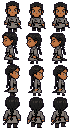
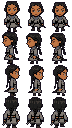
Quest art: Haru (owner's drop): walking sheet, portraits (neutral, caught, set), battle stance; Bayarmaa's sheet keeps her eyes dark [skip netlify]
Walking sheets converted with --pixel 0 --resample nearest: the pixel-grid sampling
averaged the eyes' catch-light and iris into grey. Haru's detailed battle picture
shrunk with a box filter; his fist is his hand point (BATTLE_HANDS.byLook.haru), so his
blade sits in it. Checked in a fight.

Claude-Session: https://claude.ai/code/session_01VPjV5nR6NLY9snsXRMyTWX

diff --git a/quest/src/assets.config.ts b/quest/src/assets.config.ts
@@ -1863,7 +1863,7 @@ export const BATTLE_HANDS: {
 } = {
   default: { dx: 4, dy: -9 },
   byWeapon: { staff: { dx: 8, dy: -9 }, bow: { dx: 10, dy: -12 }, blade: { dx: 4, dy: -9 } },
-  byLook: { gianna: { dx: -7, dy: -15 }, yari: { dx: 10, dy: -24 } },
+  byLook: { gianna: { dx: -7, dy: -15 }, yari: { dx: 10, dy: -24 }, haru: { dx: 16, dy: -25 } },
 };
 
 /** Enemy drawings (ENEMY_ART, or a file in art/enemies/), one texture each. */

diff --git a/docs/quest/ART-STYLE.md b/docs/quest/ART-STYLE.md
@@ -276,7 +276,9 @@ the script):
 | `solange` | `docs/quest/art-source/solange-sprites.webp` (green background, swapped to magenta), `quest-cells.py`, then rebuilt from column 1 (down, right, up; left mirrored: both side rows face right) | `--grid 3x4 --rows down,left,right,up --cell 24x32 --colors 32 --fill 0.92 --grid-lines off --key strict` (Oct 16; for the Echo scenes and the intro). Portrait 720 x 720 from 150,40. The writing pose is in `docs/quest/intro/art/solange-writing-1..3.png` |
 | `samira` | `docs/quest/art-source/samira-sprites.jpg` (Nov 10; a 4x4 sheet, side rows right then left), warmed first (figure pixels r x1.12, g x1.04, as Azzy: the sheet's skin came out olive) | `--grid 4x4 --rows down,_,_,up --sides 1,2 --cell 24x32 --colors 32`. Portraits (neutral, earnest, dismayed) 1360 x 1360 from 320,170, magenta to the box's backdrop, Lanczos to 48 x 48 |
 | `samira` (battle) | `docs/quest/art-source/samira-battle.webp` (Nov 10, 1024 px, the art's pixel 8 px) | warmed as the walk sheet, `scripts/quest-battle-pixelart.py --period=6,12` to the art's own pixels, the two poses split, both scaled by the stance's height to 40 game px (nearest), the olive skin shifted to her portrait's warm brown (hue 0.09 to 0.19, saturation 0.25 to 0.82, value under 0.74, so the gold wrap is kept) |
-| `bayarmaa` | `docs/quest/art-source/bayarmaa-sprites.jpg` (Nov 10; 3x4, side rows right then left) | `--grid 3x4 --rows down,_,_,up --sides 1,2 --cell 24x32 --colors 32 --skin-colors 6`. Portraits (neutral, fierce, soft) 1400 x 1400 from 300,160, magenta to the box's backdrop, Lanczos to 48 x 48 |
+| `bayarmaa` | `docs/quest/art-source/bayarmaa-sprites.jpg` (Nov 10; 3x4, side rows right then left) | `--grid 3x4 --rows down,_,_,up --sides 1,2 --cell 24x32 --colors 32 --skin-colors 6 --pixel 0 --resample nearest` (the pixel-grid sampling greyed her eyes: the white catch-light and the dark iris averaged; nearest keeps them dark). Portraits (neutral, fierce, soft) 1400 x 1400 from 300,160, magenta to the box's backdrop, Lanczos to 48 x 48 |
+| `haru` | `docs/quest/art-source/haru-sprites.jpg` (Nov 10; 4x4) | `--grid 4x4 --rows down,_,_,up --sides 1,2 --cell 24x32 --colors 32 --skin-colors 6 --pixel 0 --resample nearest` (as Bayarmaa, for the eyes). Portraits (neutral, caught, set) 1400 x 1400 from 300,120 |
+| `haru` (battle) | `docs/quest/art-source/haru-battle.jpg` (Nov 10; detailed, about 110 art pixels tall) | `quest-battle-pixelart.py --period=6,12` to the art's pixels, the poses split and shrunk to 40 game px with a box filter (alpha cut at 110; nearest dropped too much at this ratio), the magenta fringe on the edge removed; his fist registered as the hand: `BATTLE_HANDS.byLook.haru` dx 16, dy -25 |
 | `rael` | `docs/quest/art-source/rael-sprites.webp` (Oct 27), `--grid 3x4 --rows down,left,right,up --cell 28x36 --colors 32 --grid-lines off --key strict` (reference sheet `rael-reference.webp`) | Portrait from `rael-portrait.webp` (cold), 720 x 720 from 160,40; the lamplight portrait is kept in art-source for later |
 | `benny_old` | `docs/quest/art-source/benny-old-sprites.webp` (Oct 27), `quest-cells.py <src> clean.png 3 4`, then rebuilt: down from row 1, right from row 3, left = right mirrored (Gemini drew both side rows facing right), up = row 4 column 1 three times (its other cells face right); magenta left between the legs cleared | `--grid 3x4 --rows down,left,right,up --cell 24x32 --colors 32 --grid-lines off --key strict`. Portrait 700 x 700 from 170,90 |
 

diff --git a/docs/quest/ART-LEFT.md b/docs/quest/ART-LEFT.md
@@ -31,7 +31,7 @@ Tick a box when the picture is made. A reference sheet is only a working picture
 |---|---|---|---|---|---|
 | Samira Dorini | `samira` | - | [x] Nov 10 | [x] earnest, dismayed | [x] Nov 10 |
 | Bayarmaa Ironvow | `bayarmaa` | - | [x] Nov 10 | [x] fierce, soft | [x] Nov 10 |
-| Haru Suzumori | `haru` | [ ] | [ ] | [ ] caught, set | [ ] |
+| Haru Suzumori | `haru` | - | [x] Nov 10 | [x] caught, set | [x] Nov 10 |
 | Vikram of the Agnivansh | `vikram` | [ ] | [ ] | [ ] out_of_breath, set | [ ] |
 | Edmund Stillwater | `edmund` | [ ] | [ ] | [ ] steady, gentle | [ ] |
 
@@ -42,7 +42,7 @@ Tick a box when the picture is made. A reference sheet is only a working picture
 | Azzy (blade-knight) | `battle/azzy.png` | [ ] |
 | Samira (alchemist) | `battle/samira.png` | [x] Nov 10 |
 | Bayarmaa (raider) | `battle/bayarmaa.png` | [ ] |
-| Haru (shadow agent) | `battle/haru.png` | [ ] |
+| Haru (shadow agent) | `battle/haru.png` | [x] Nov 10 |
 | Vikram (fire duelist) | `battle/vikram.png` | [ ] |
 | Edmund (guardian) | `battle/edmund.png` | [ ] |
 
